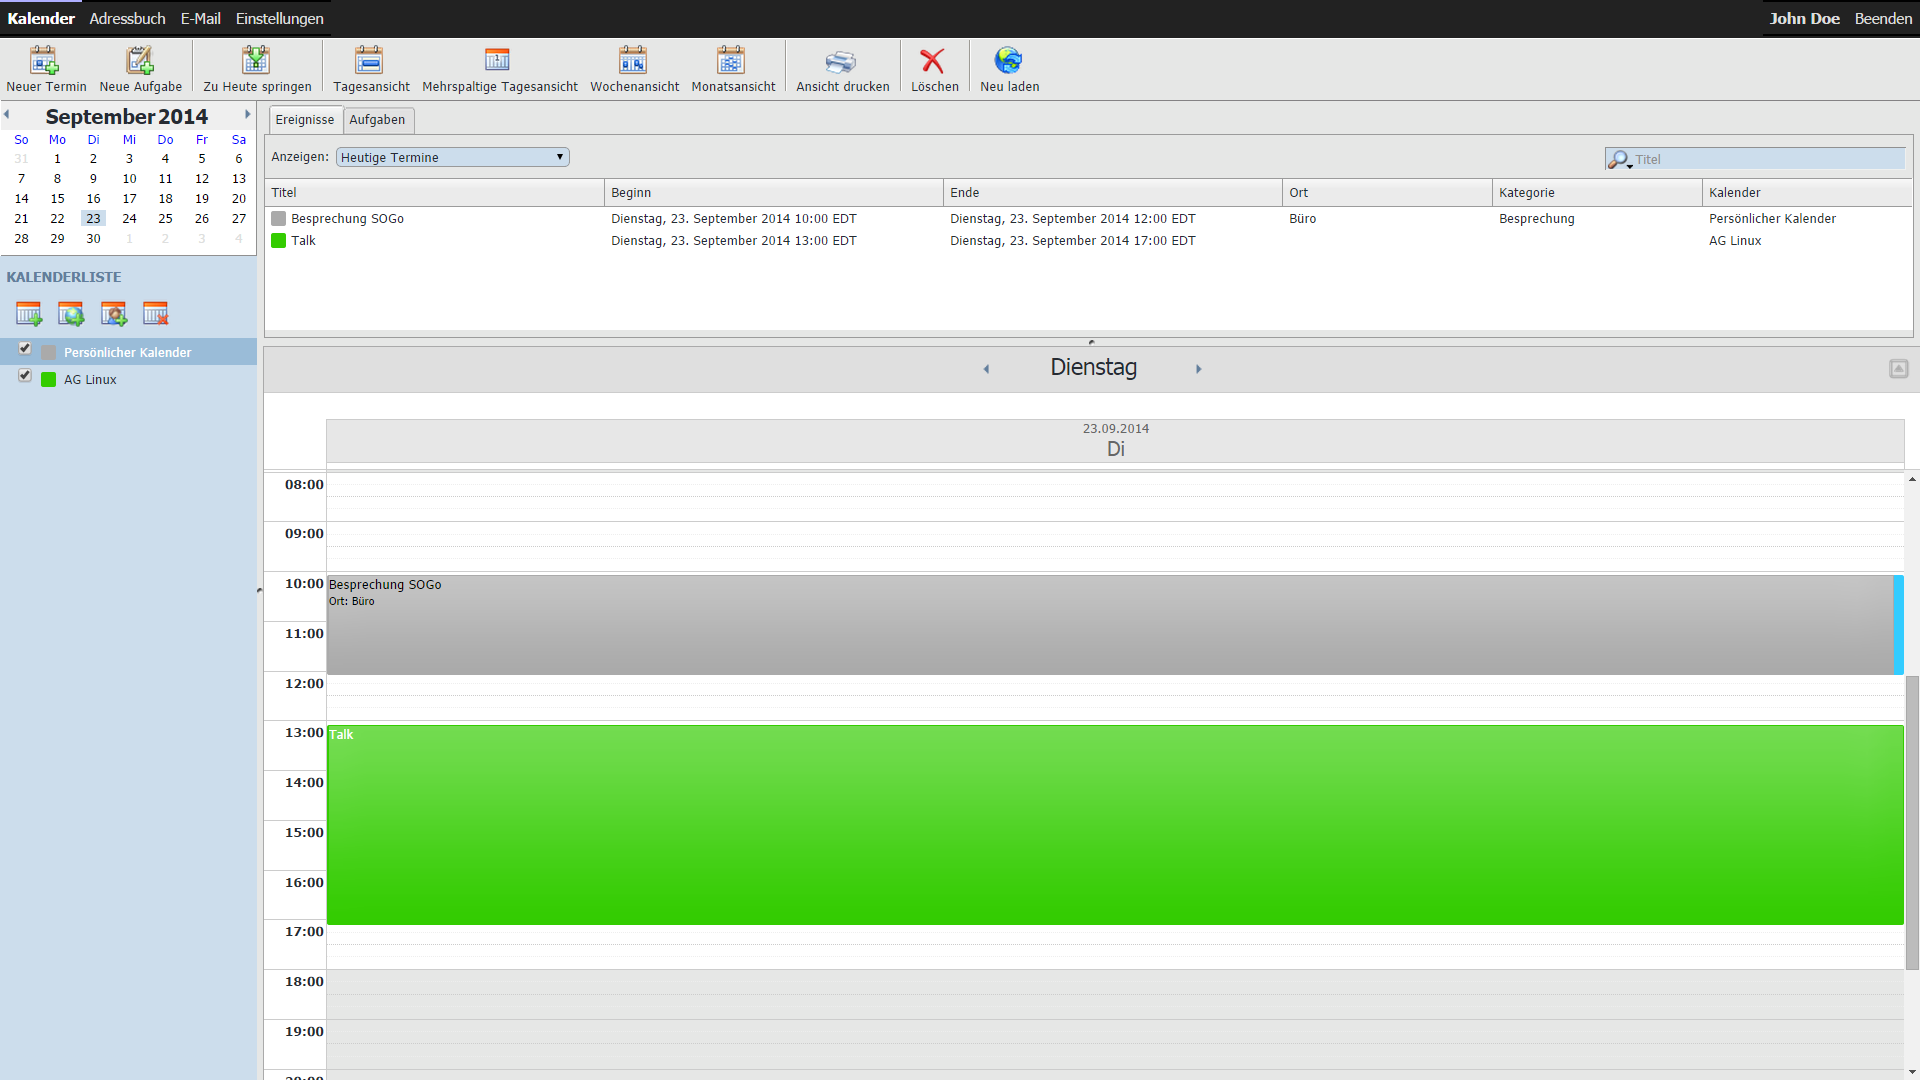
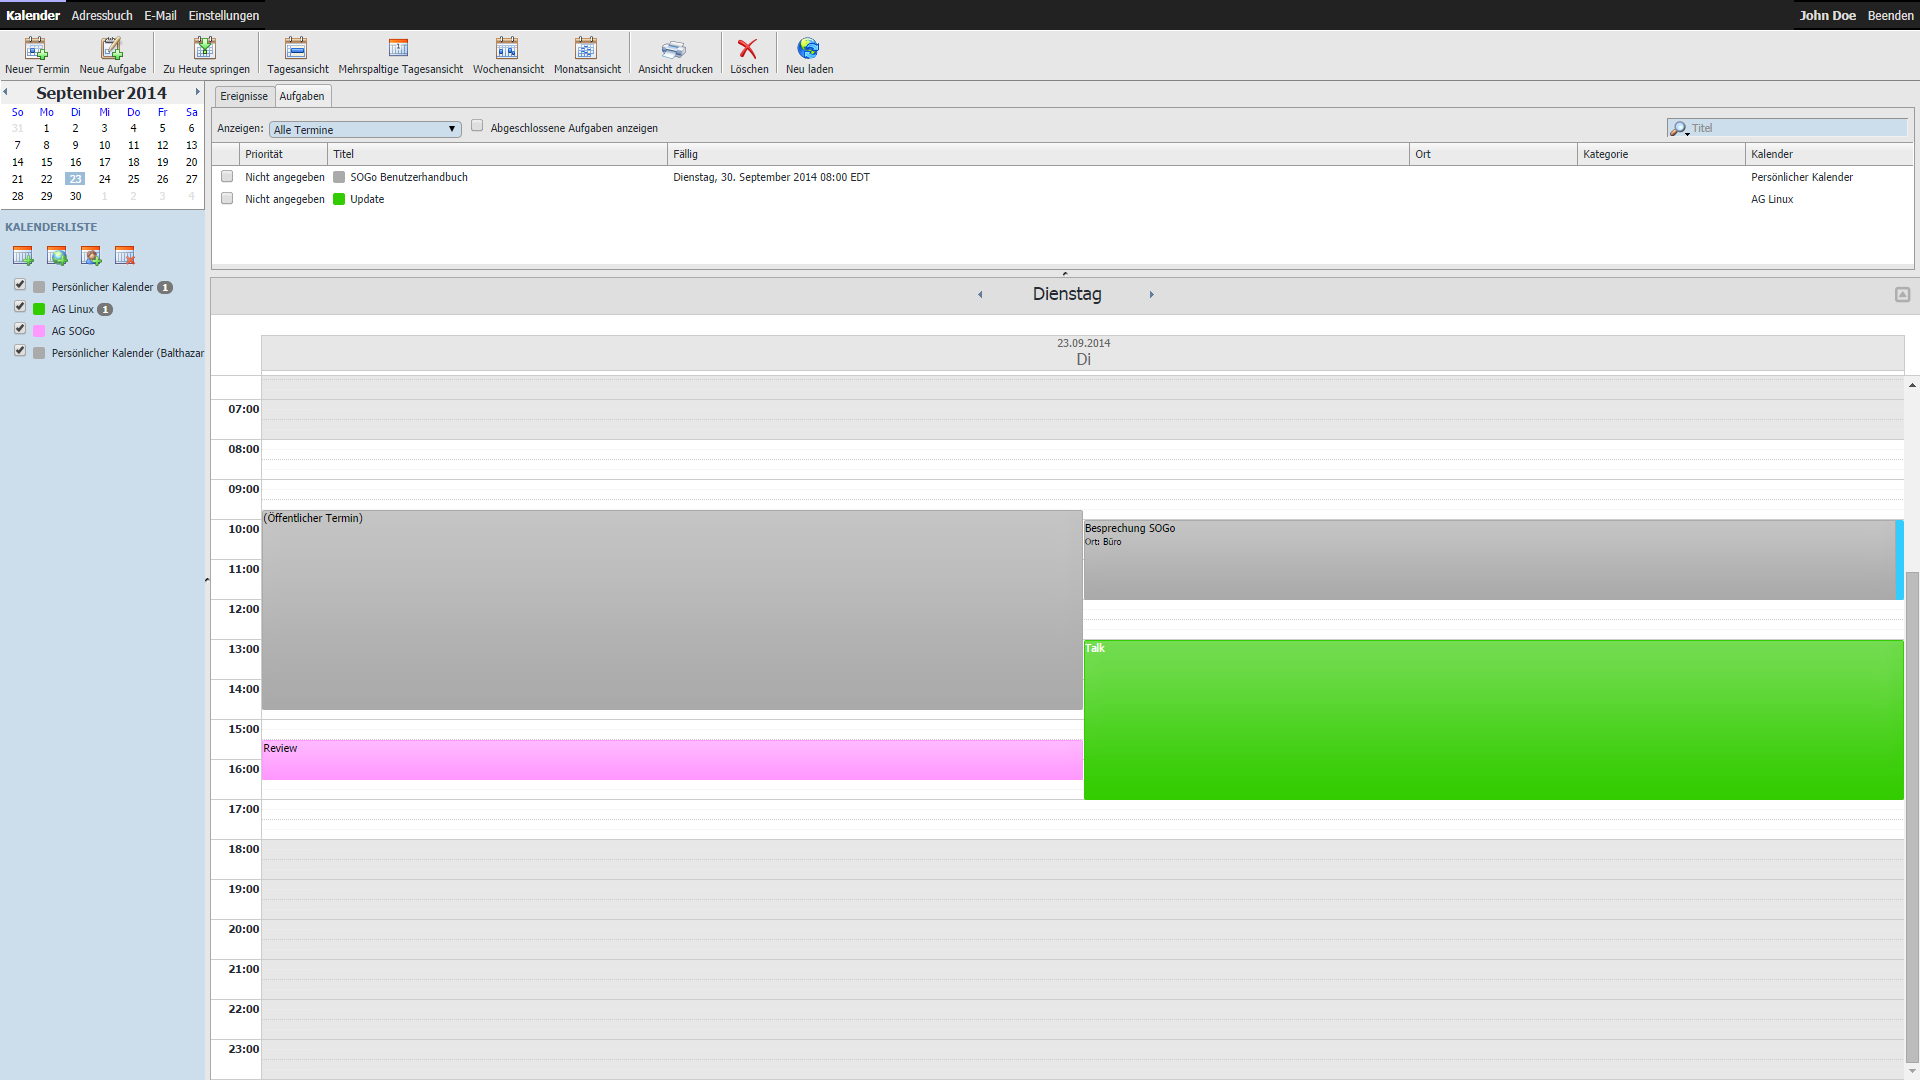
Update user-manual.md

diff --git a/user-manual.md b/user-manual.md
@@ -36,13 +36,15 @@ Ihre Mail-Signatur können Sie unter "IMAP-Konten" (1) nach einem Klick auf "(Zu
 
 ### Ansichtsarten ###
 
-SOGo bietet zur Zeit folgende Ansichtsarten:
+SOGo bietet zur Zeit folgende Ansichtsarten, bei welchen die angezeigten Kalender über die linke Kalenderliste an- und abgewählt werden können:
 
 Tagesansicht
 ![](img/screenshot_005.png)
 
 Mehrspaltige Tagesansicht
 ![](img/screenshot_006.png)
+
+![](img/screenshot_037.png)
 
 Wochenansicht
 ![](img/screenshot_008.png)
